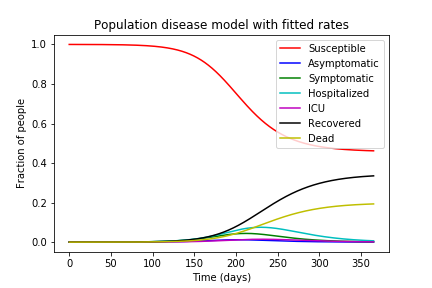
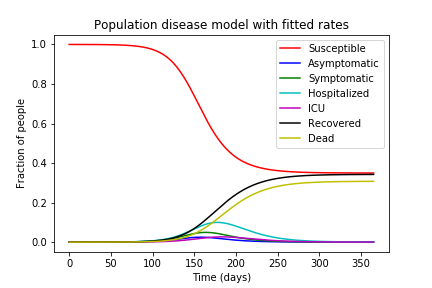
updated datasets for iceland and geneva. played around with the weights and limits for the parameters.

diff --git a/infectionModel_v3.0.py b/infectionModel_v3.0.py
@@ -6,8 +6,9 @@ from scipy.optimize import minimize
 from scipy.optimize import curve_fit
 import os
 from function_lib_new import *
-from lmfit import minimize, Parameters, Parameter, report_fit
+from lmfit import minimize, Parameters, Parameter, report_fit, fit_report
 from scipy.integrate import odeint
+import pickle
 
 # save the figures in a separate folder
 if not os.path.exists('figures'):
@@ -18,7 +19,7 @@ if not os.path.exists('figures'):
 colors = ['r', 'b', 'g', 'c', 'm', 'k', 'y']
 
 # what country/region?
-country = 'campania' #pick 'iceland' for Iceland
+country = 'geneve' #pick 'iceland' for Iceland
 datafile = country + '_data.csv'
 parameterfile = country + '_parameters.txt'
 input_dict = file_to_dict(parameterfile)  
@@ -51,6 +52,16 @@ result = minimize(residual, params, args=(t_measured, country_data), method='lea
 data_fitted = g(np.linspace(0., amount_of_days, 100), n0, result.params)
 # display fitted statistics
 report_fit(result)
+
+
+#Below is construction to use when running the minimizer on multiple datasets
+#and saving the parameters to compare later on.
+#saving the minimizer result to a temporary file for later usage
+with open('par.pkl', 'wb') as f:
+    pickle.dump(result, f)
+#loading in the minimizer result again   
+with open('./par.pkl', 'rb') as f:
+    list2 = pickle.load(f)
 
 # plot fitted data
 fig1, ax1 = plt.subplots()

diff --git a/function_lib_new.py b/function_lib_new.py
@@ -77,7 +77,7 @@ def residual(paras, t, data):
     residual = model-data
     #give hospitalized, ICU & dead people a higher weight
     for i in [3,4,6]:
-        residual[:,i]=8*residual[:,i]
+        residual[:,i]=10*residual[:,i]
     
     return residual.ravel()
 
@@ -152,7 +152,7 @@ def data_loader(filename,pop_size):
         data = np.array(data)
 
 
-    data = np.delete(data,[0,1,7],axis=1) #delete country, date and tests
+    data = np.delete(data,[0,1,7,9],axis=1) #delete country, date and tests and comments
     data = np.delete(data,[0],axis=0) #delete header
     data = np.transpose(data)
     data = data.astype(np.float)
@@ -174,7 +174,7 @@ def parameters(input_dict,country_data):
     params.add('r_meeting1b', value=input_dict["r_meeting1b"], vary=True, min=0)
     params.add('r_meeting2b', value=input_dict["r_meeting2b"], vary=True, min=0)
     params.add('r_meeting3b', value=input_dict["r_meeting3b"], vary=True, min=0)
-    params.add('r_meeting4b', value=input_dict["r_meeting4b"], vary=True,min=0)
+    params.add('r_meeting4b', value=input_dict["r_meeting4b"], vary=True, min=0)
     params.add('r_infection1', value=input_dict["r_infection1"], vary=True,min=0)
     params.add('r_infection2', value=input_dict["r_infection2"], vary=True,min=0)
     params.add('r_infection3', value=input_dict["r_infection3"], vary=True,min=0)
